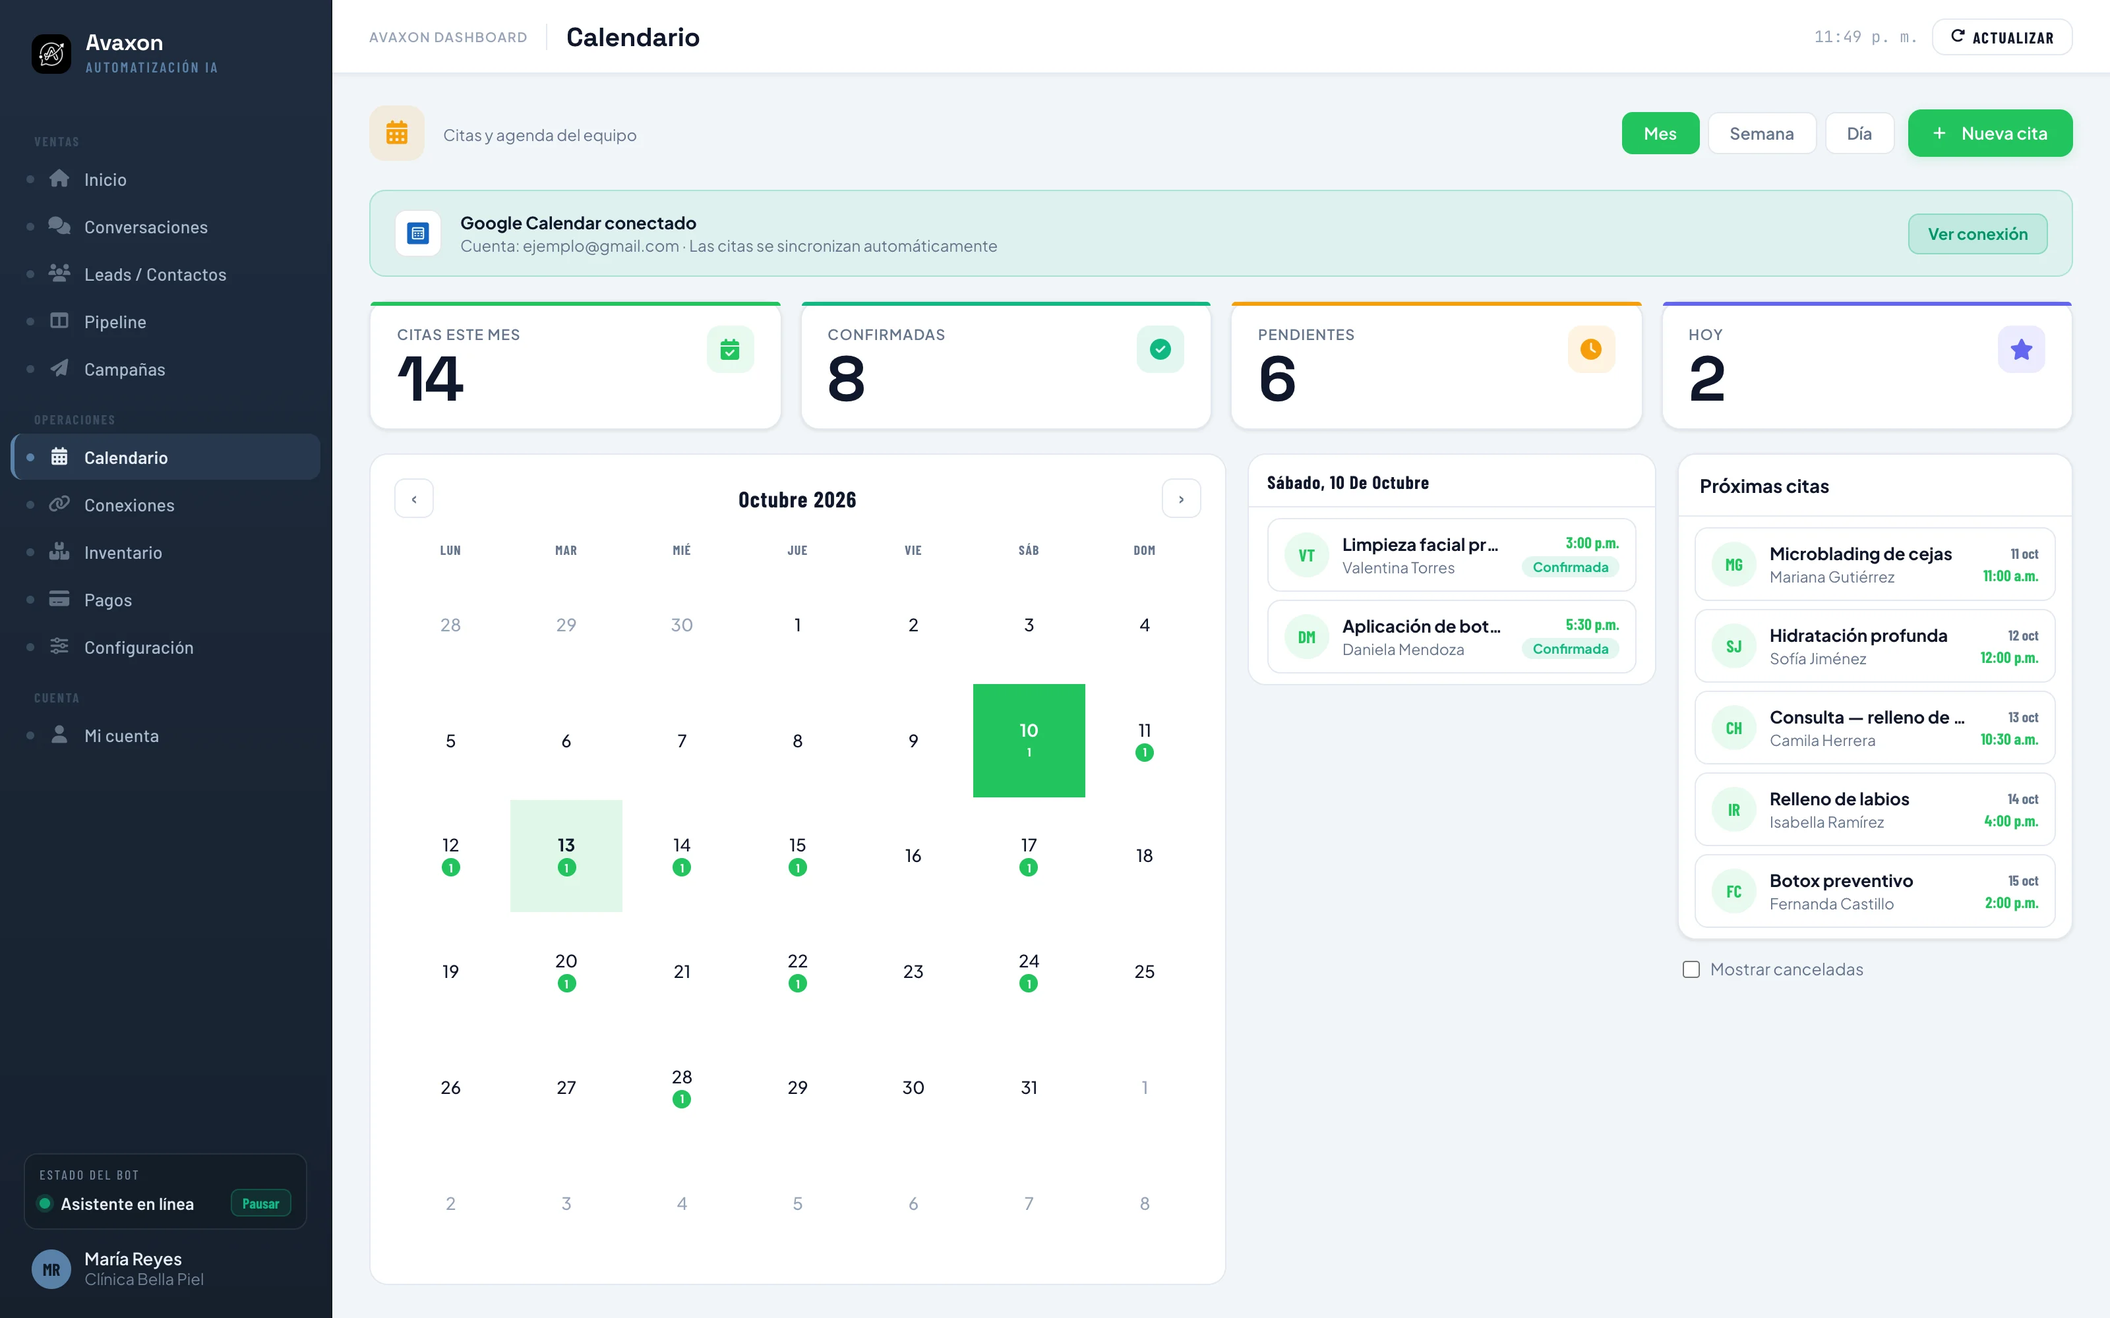
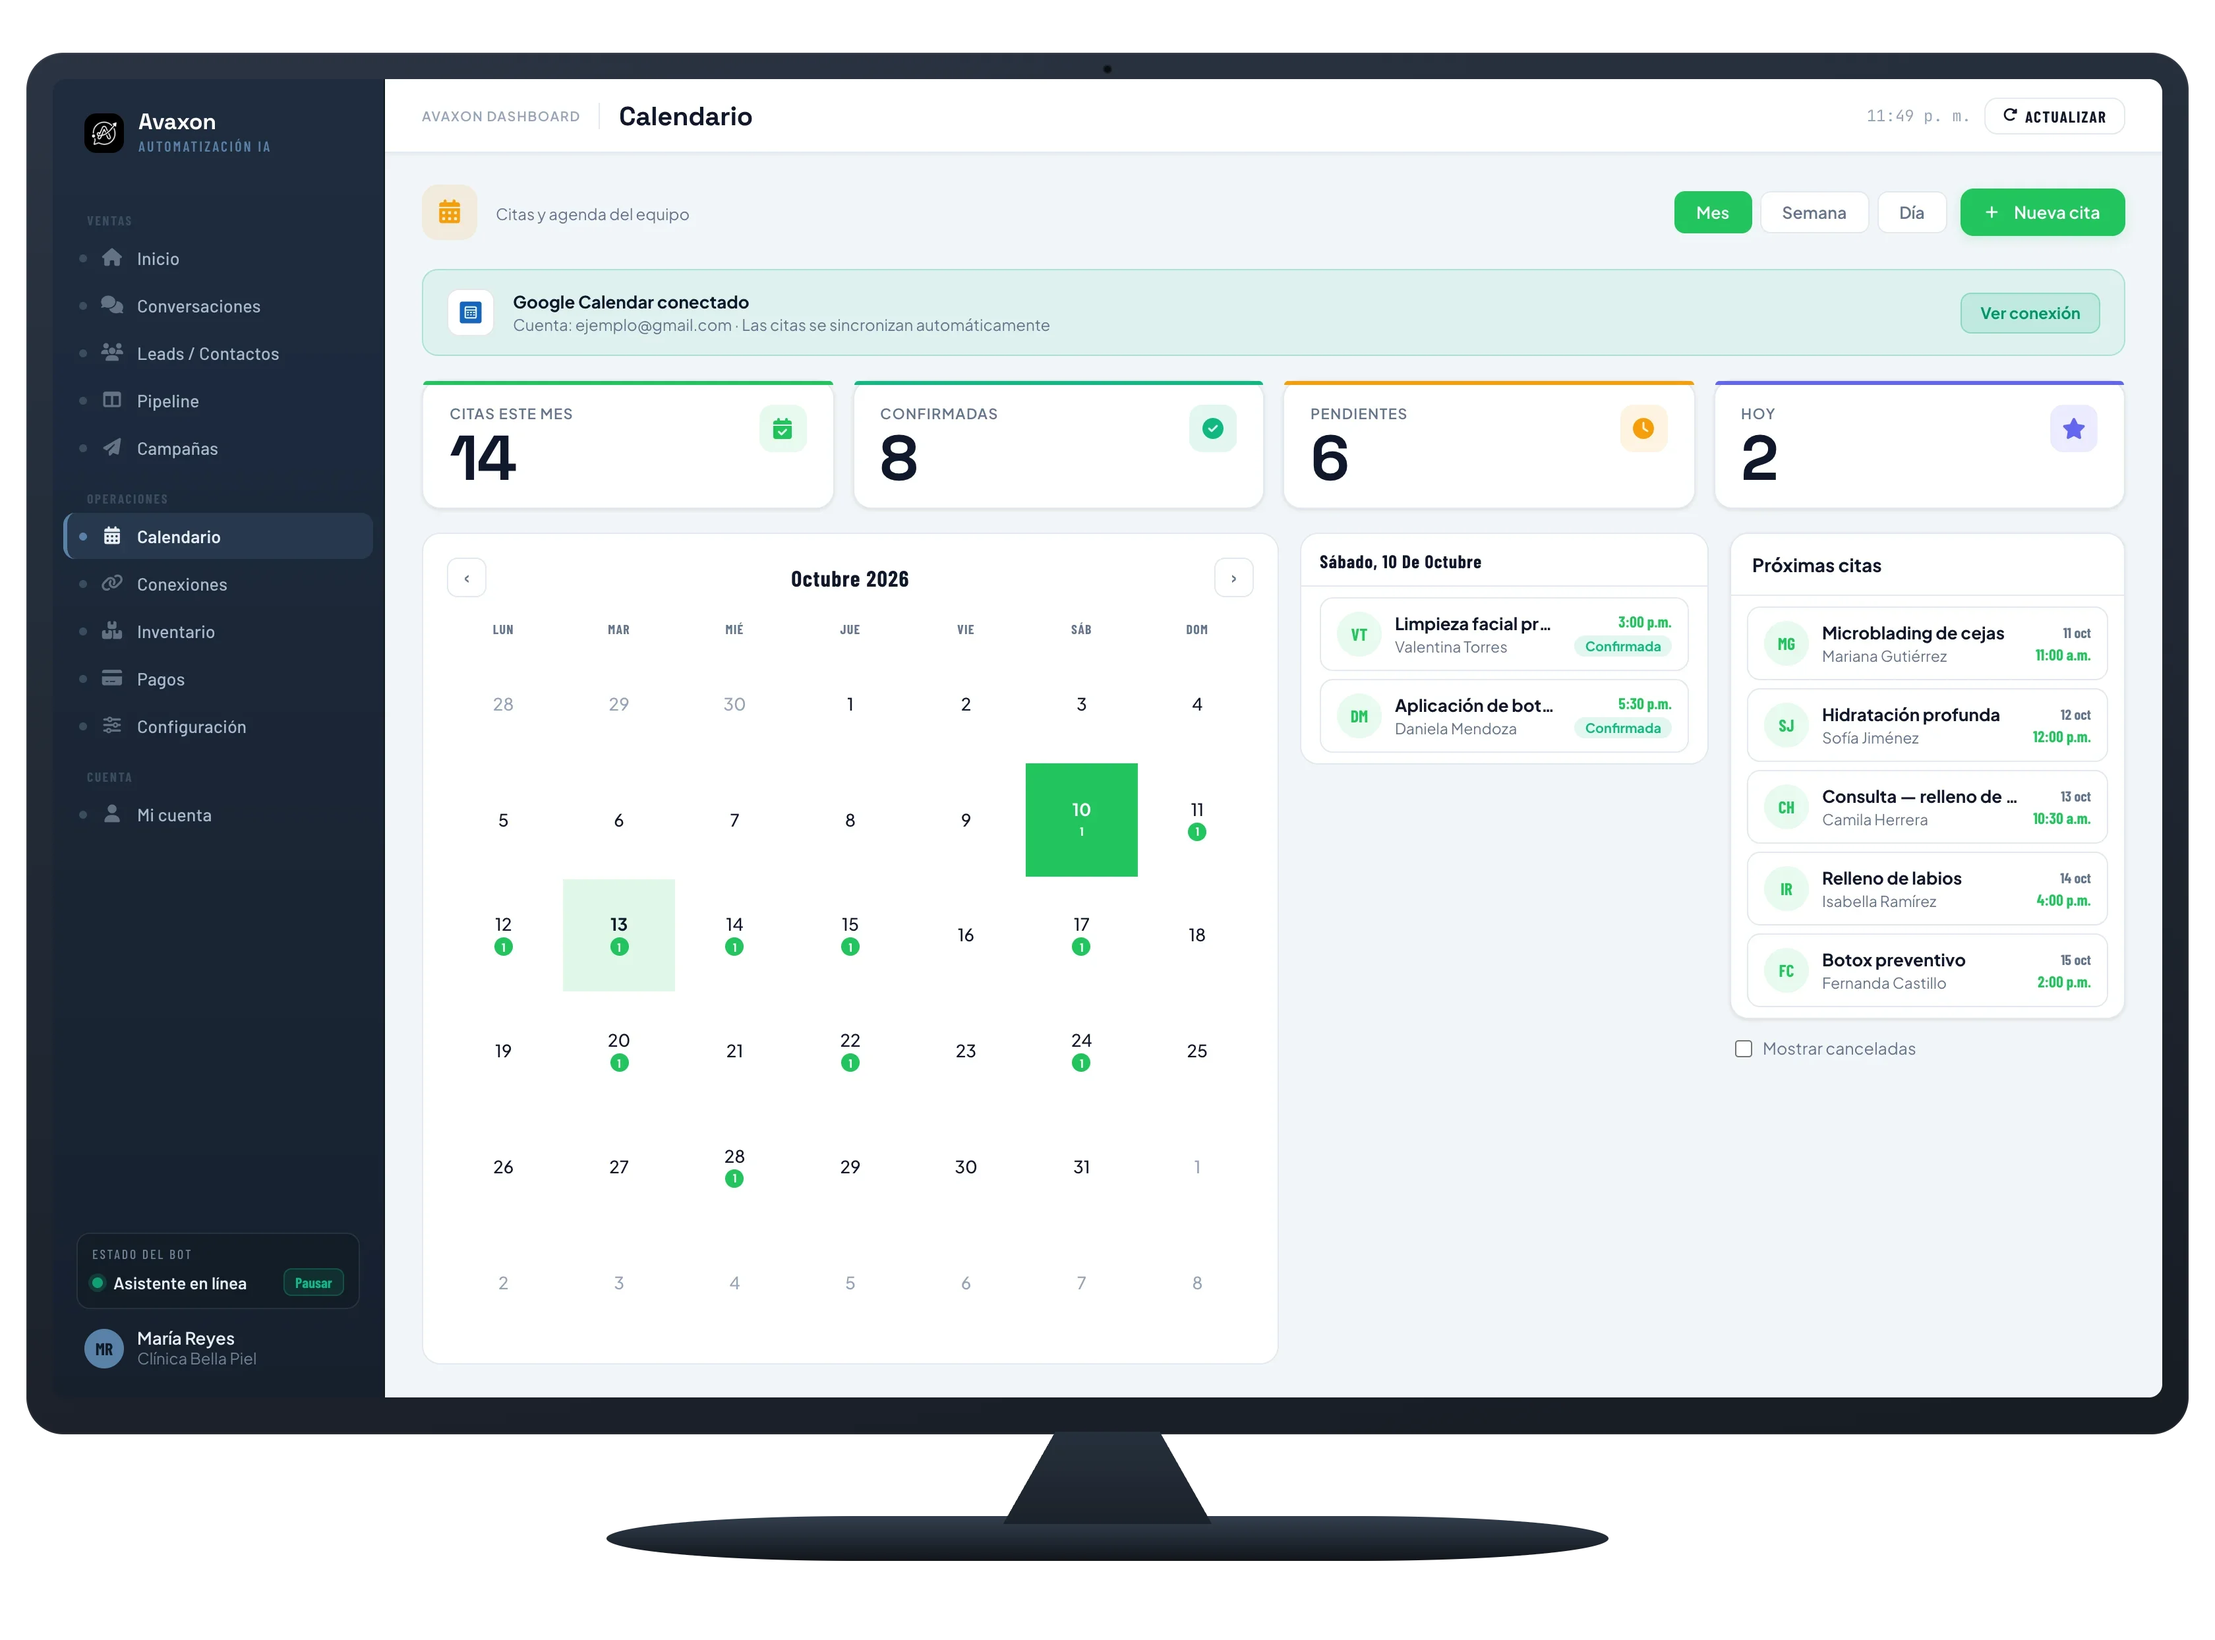
Dashboard · Citas: restaura el mockup de monitor, ahora con fondo transparente y tamaño responsive
El reemplazo anterior dejó solo el screenshot plano, perdiendo la plantilla
de monitor que tenía la sección originalmente (y que el PNG viejo lograba
con una marca de agua de rotato.app y fondo blanco opaco). Se reconstruye
el mismo estilo de mockup (monitor + cuello + base) como PNG con canal
alfa real (confirmado con `sips -g hasAlpha`), usando el mismo screenshot
limpio de antes (sin marca de agua ni usuario real) como contenido de
pantalla — sin tocar la base de datos.

CSS: quita el "sangrado" (110% de ancho + margen negativo del 5%) que
recortaba el mockup contra el borde de la pantalla; ahora es 100% de
ancho con max-width:820px y margin:auto, con buen margen a los lados
tanto en móvil como en escritorio.

Claude-Session: https://claude.ai/code/session_01WBUg3qv8pdqLMp2gyLzfGM

diff --git a/index.html b/index.html
@@ -142,9 +142,11 @@
       .plan-card, .plan-featured { padding: 20px 16px 22px !important; }
       .btn-primary, .btn-ghost { width: 100%; text-align: center; justify-content: center; }
       .faq-btn { padding: 18px 16px !important; }
-      .dashboard-img { width: 100% !important; margin-left: 0 !important; }
     }
-    .dashboard-img { width: 110%; max-width: 1400px; margin-left: -5%; }
+    /* Responsive con margen visible a los lados en vez del "sangrado" (110%
+       de ancho con margen negativo) que antes recortaba el mockup contra el
+       borde de la pantalla en vez de dejarlo respirar. */
+    .dashboard-img { display: block; width: 100%; max-width: 820px; height: auto; margin: 0 auto; }
   </style>
 </head>
 <body>
@@ -277,7 +279,7 @@
 
       <!-- Dashboard image -->
       <div data-reveal style="position: relative; text-align: center;">
-        <img src="dashboard-avaxon.webp" alt="Dashboard de citas Avaxon" class="dashboard-img" width="1600" height="1000" loading="lazy" style="display: inline-block; filter: drop-shadow(0 40px 80px rgba(0,0,0,.6));">
+        <img src="dashboard-avaxon.webp" alt="Dashboard de citas Avaxon" class="dashboard-img" width="1680" height="1244" loading="lazy" style="filter: drop-shadow(0 40px 80px rgba(0,0,0,.45));">
       </div>
 
     </div>
